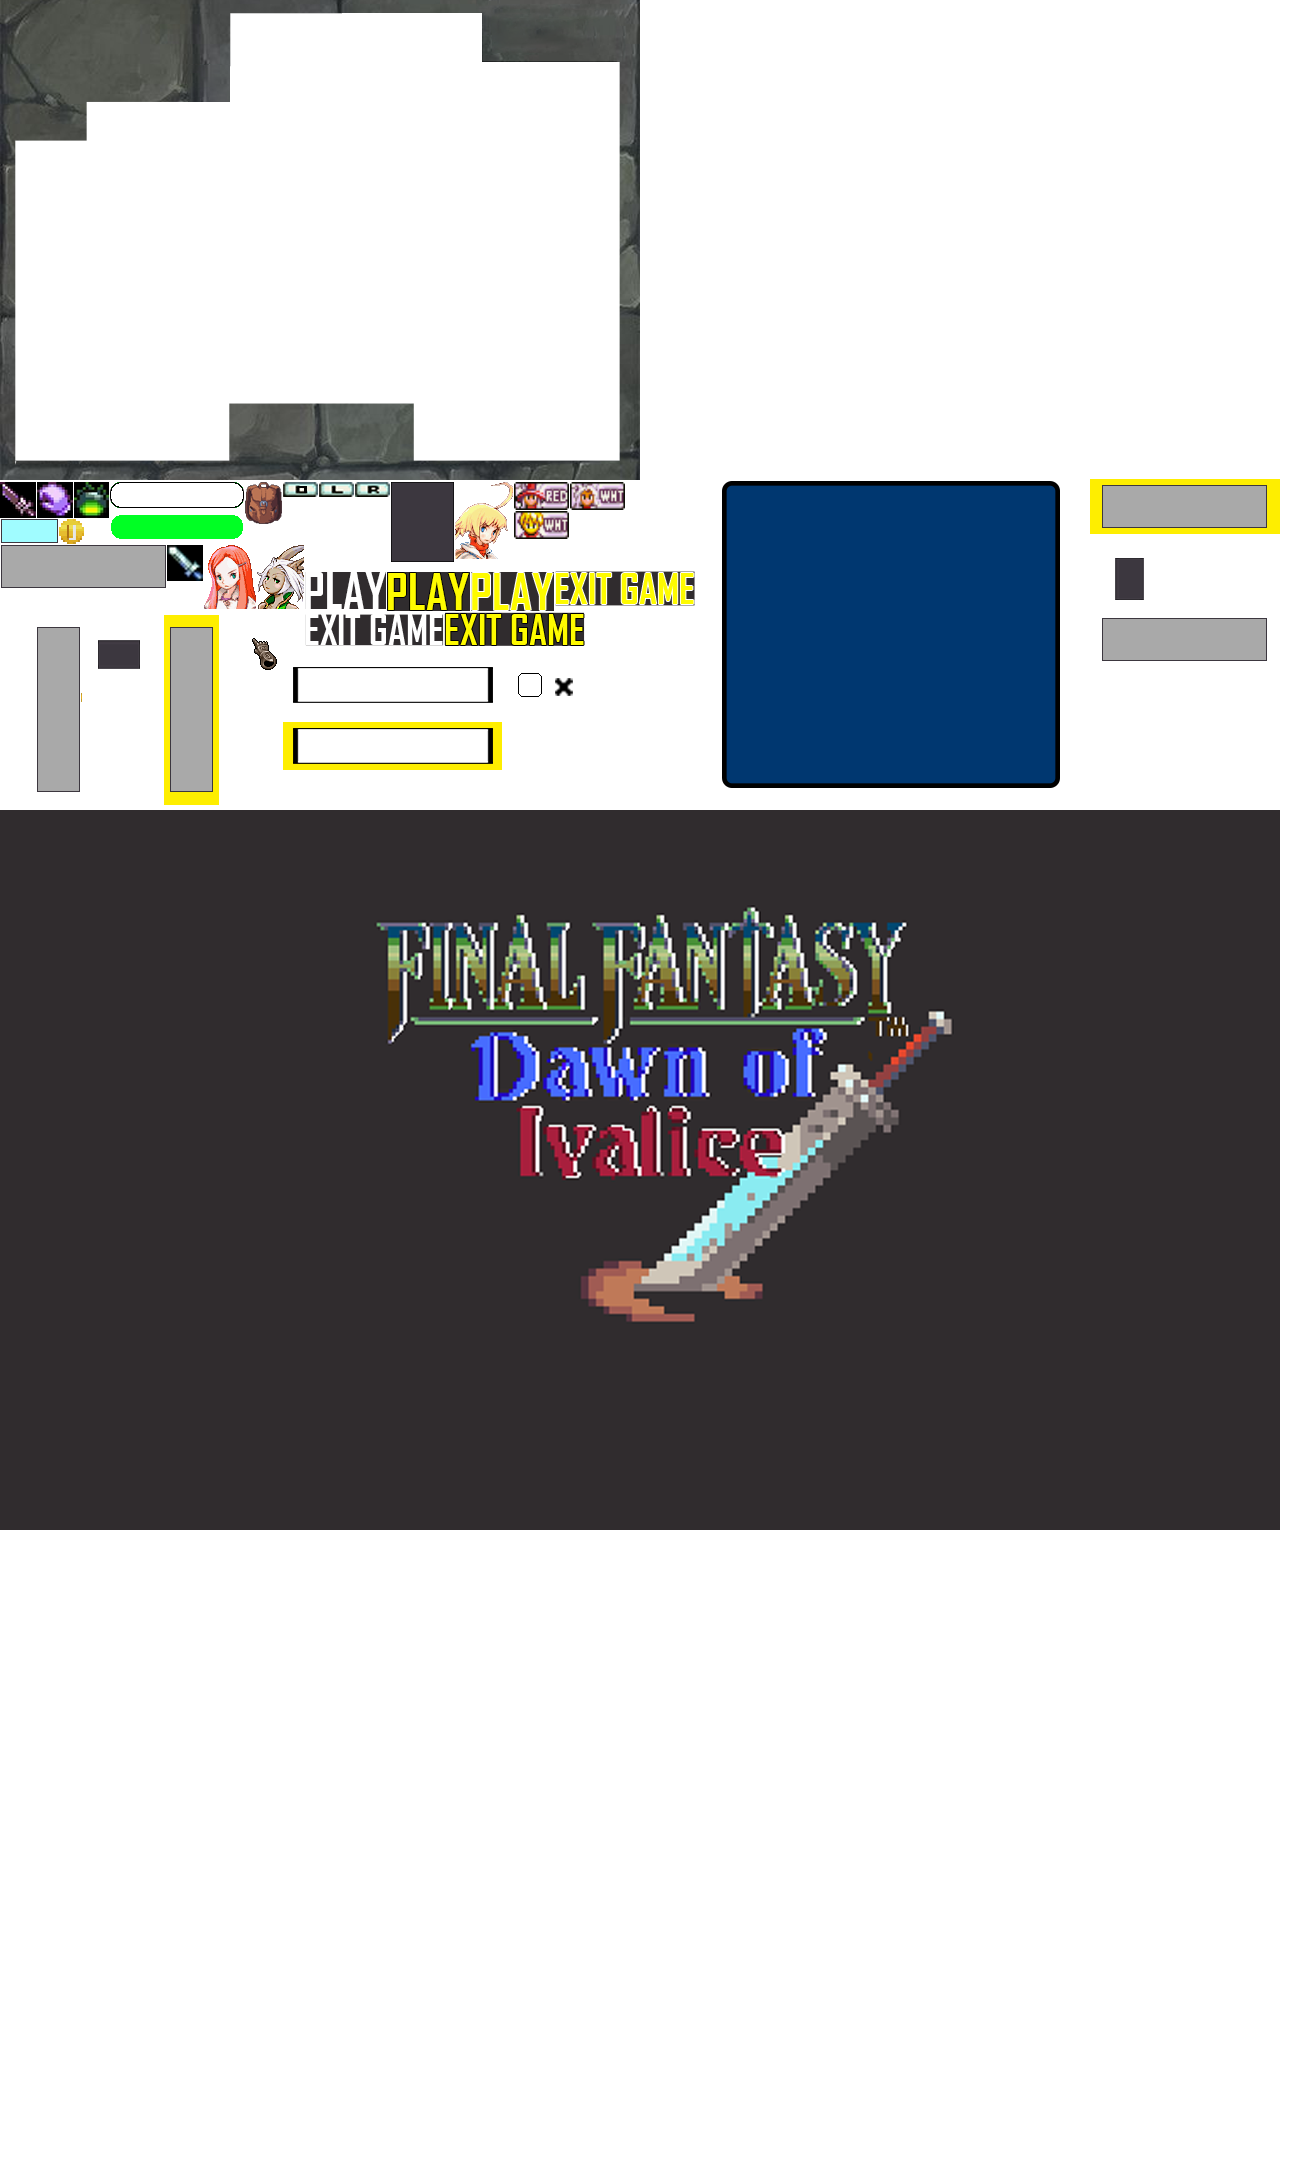
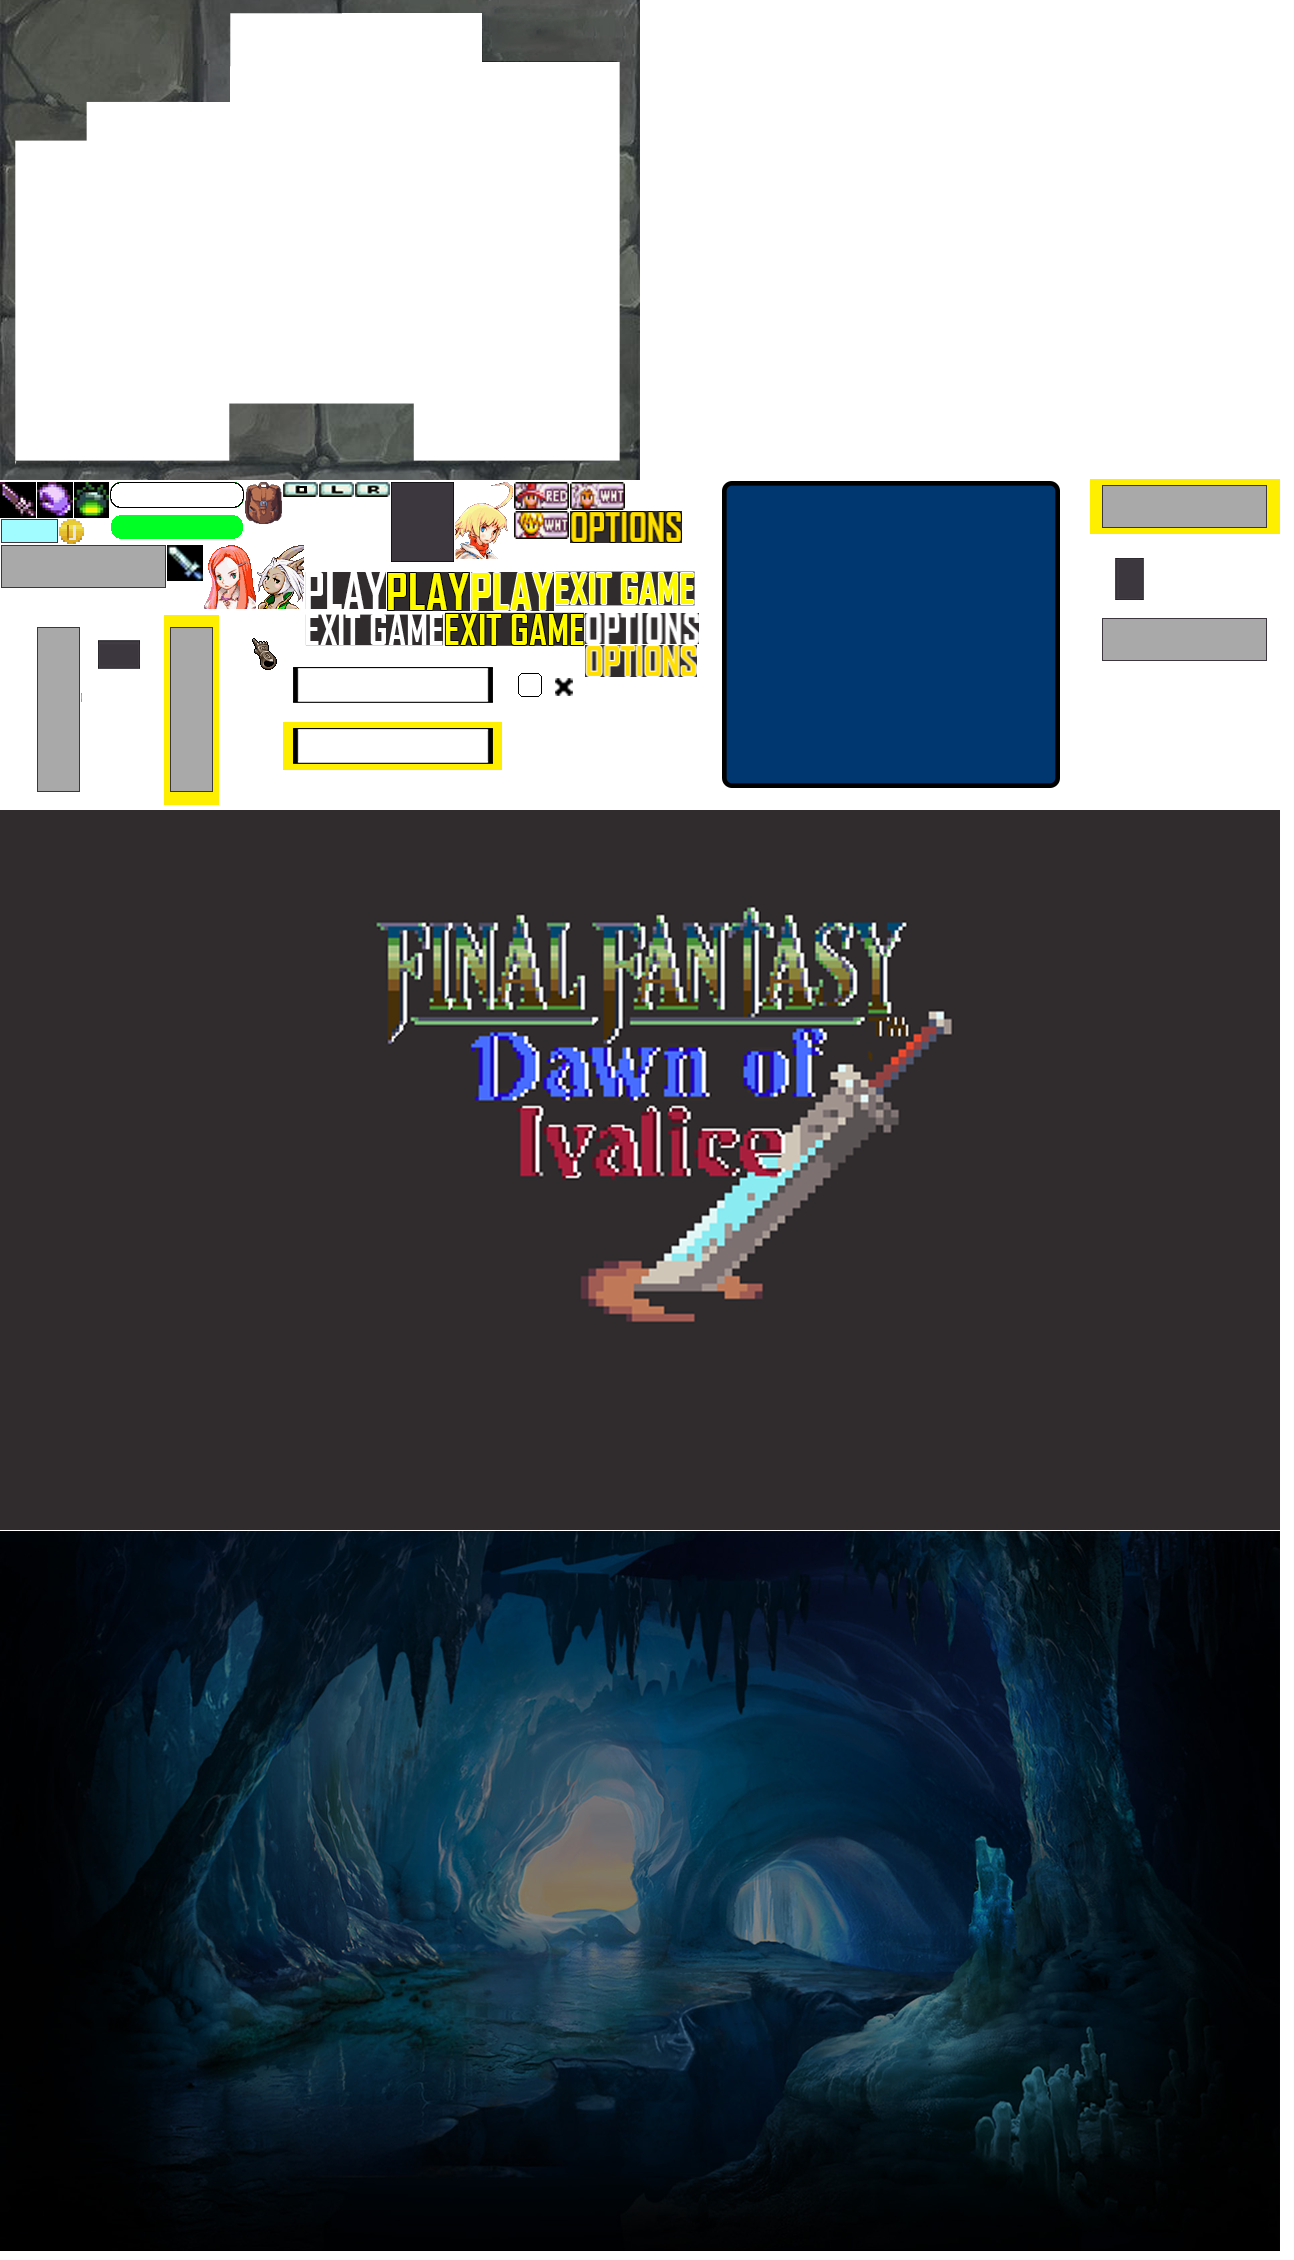
started setting panel

diff --git a/Motor2D/j1Scene.cpp b/Motor2D/j1Scene.cpp
@@ -65,10 +65,8 @@ bool j1Scene::Start()
 		App->map->active = true;
 		
 		inGamePanel->enable = true;
-		uiMarche->enable = false;
-		uiShara->enable = false;
-		uiRitz->enable = false;
-		startMenu->enable = false;
+		if (startMenu->enable)
+			startMenu->enable = false;
 	}
 	if (state == SceneState::STARTMENU)
 	{
@@ -77,12 +75,16 @@ bool j1Scene::Start()
 			LoadInGameUi(sceneNode);
 			LoadStartMenu(sceneNode);
 			LoadPlayerUi(sceneNode);
+			LoadSettings(sceneNode);
 			LoadedUi = true;
 		}
 		App->map->active = false;
 		startMenu->enable = true;
-		if (inGamePanel->enable)
-			inGamePanel->enable = false;
+		uiMarche->enable = false;
+		uiShara->enable = false;
+		uiRitz->enable = false;
+		settingPanel->enable = false;
+		inGamePanel->enable = false;
 	}
 	return true;
 }
@@ -154,10 +156,11 @@ bool j1Scene::Update(float dt)
 	{
 		App->map->active = false;
 		inGamePanel->enable = false;
-		startMenu->enable = true;
+		//startMenu->enable = true;
 		uiMarche->enable = false;
 		uiRitz->enable = false;
 		uiShara->enable = false;
+		//settingPanel->enable = false;
 	}
 
 	if (state == SceneState::GAME)
@@ -165,6 +168,7 @@ bool j1Scene::Update(float dt)
 		App->map->active = true;
 		inGamePanel->enable = true;
 		startMenu->enable = false;
+		//settingPanel->enable = false;
 		if (App->entityFactory->player->selectedCharacterEntity->character == characterName::MARCHE && inGamePanel->enable)
 		{
 			LOG("marche");
@@ -216,8 +220,6 @@ bool j1Scene::Update(float dt)
 
 		App->entityFactory->player->selectedCharacterEntity->life -= 20; 
 	}
-
-
 	return true;
 }
 
@@ -456,5 +458,13 @@ bool j1Scene::LoadPlayerUi(pugi::xml_node & nodeScene)
 	uiRitz = App->gui->AddEmptyElement({ 0,0 });
 	LoadUiElement(uiRitz, ritzNode);
 
+	return true;
+}
+
+bool j1Scene::LoadSettings(pugi::xml_node & nodeScene)
+{
+	pugi::xml_node settingNode = nodeScene.child("Settings");
+	settingPanel = App->gui->AddEmptyElement({ 0,0 });
+	LoadUiElement(settingPanel, settingNode);
 	return true;
 }

diff --git a/Motor2D/j1Gui.cpp b/Motor2D/j1Gui.cpp
@@ -147,8 +147,7 @@ void j1Gui::ApplyTabBetweenSimilar(bool setClicked) {
 		if (App->input->GetKey(SDL_SCANCODE_RIGHT) == KEY_DOWN)
 		{
 			std::list<UiItem*>::iterator item = ListItemUI.begin();
-			std::list<UiItem*> candidates; 
-			
+			std::list<UiItem*> candidates;
 			for (; item != ListItemUI.end(); item++)                
 			{
 				if ((*item)->parent == selected_object->parent && (*item)->parent->enable)
@@ -537,5 +536,11 @@ void j1Gui::FadeToScene()
 void j1Gui::ExitGame()
 {
 	App->scene->exitGame = true;
+}
+
+void j1Gui::SettingsScreen()
+{
+	App->scene->startMenu->enable = false;
+	App->scene->settingPanel->enable = true;
 }
 

diff --git a/Motor2D/j1Scene.h b/Motor2D/j1Scene.h
@@ -49,6 +49,7 @@ public:
 	UiItem * uiShara = nullptr;
 	UiItem * uiRitz = nullptr;
 	UiItem * startMenu = nullptr;
+	UiItem * settingPanel = nullptr;
 	// UiItem_Image* testPanel = nullptr; 
 	bool debug = false;
 	bool exitGame = false;
@@ -63,6 +64,7 @@ private:
 	bool LoadInGameUi(pugi::xml_node& nodeScene);
 	bool LoadStartMenu(pugi::xml_node& nodeScene);
 	bool LoadPlayerUi(pugi::xml_node& nodeScene);
+	bool LoadSettings(pugi::xml_node& nodeScene);
 
 	PlayerEntityManager* player_selected = nullptr;
 };

diff --git a/Motor2D/UiItem_Button.cpp b/Motor2D/UiItem_Button.cpp
@@ -41,6 +41,8 @@ void UiItem_Button::DoLogicClicked(std::string &functionName)
 		App->gui->FadeToScene();
 	if (functionName == "ExitGame")
 		App->gui->ExitGame();
+	if (functionName == "SettingsScreen")
+		App->gui->SettingsScreen();
 }
 
 void UiItem_Button::Draw(const float &dt)

diff --git a/Motor2D/j1Gui.h b/Motor2D/j1Gui.h
@@ -60,6 +60,7 @@ public:
 	SDL_Texture* GetAtlas();
 	void FadeToScene();
 	void ExitGame();
+	void SettingsScreen();
 
 private:
 	SDL_Texture * atlas;
